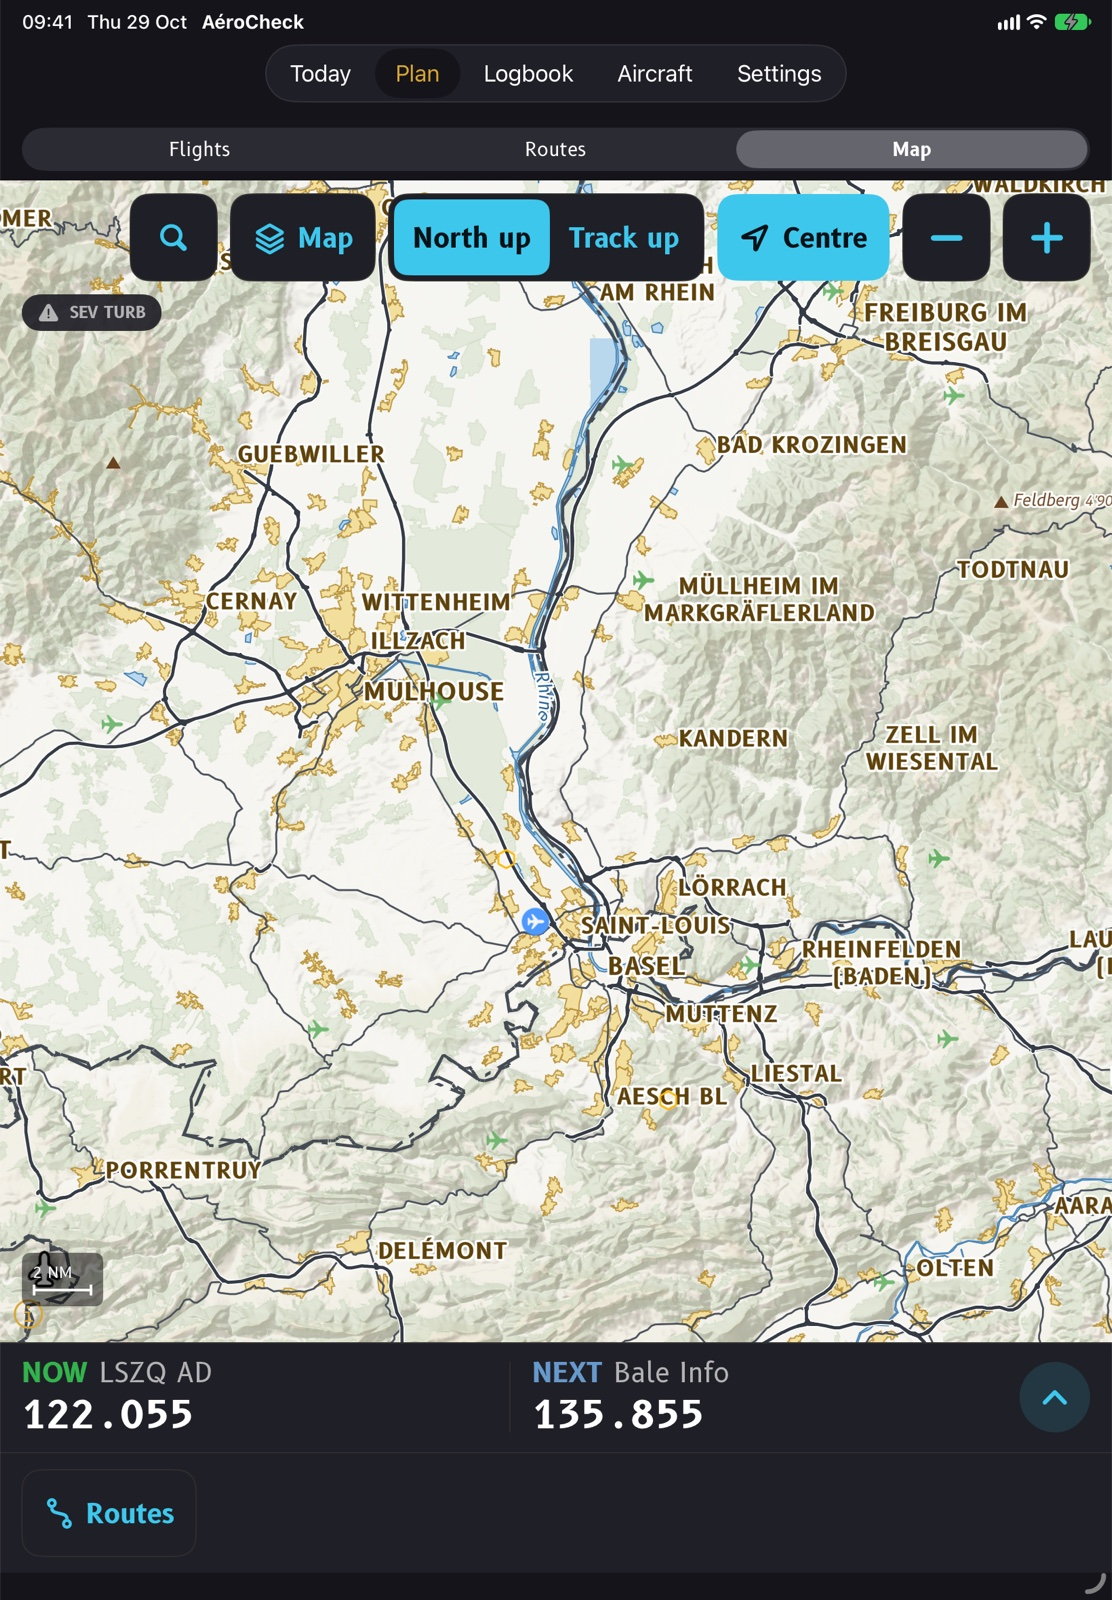
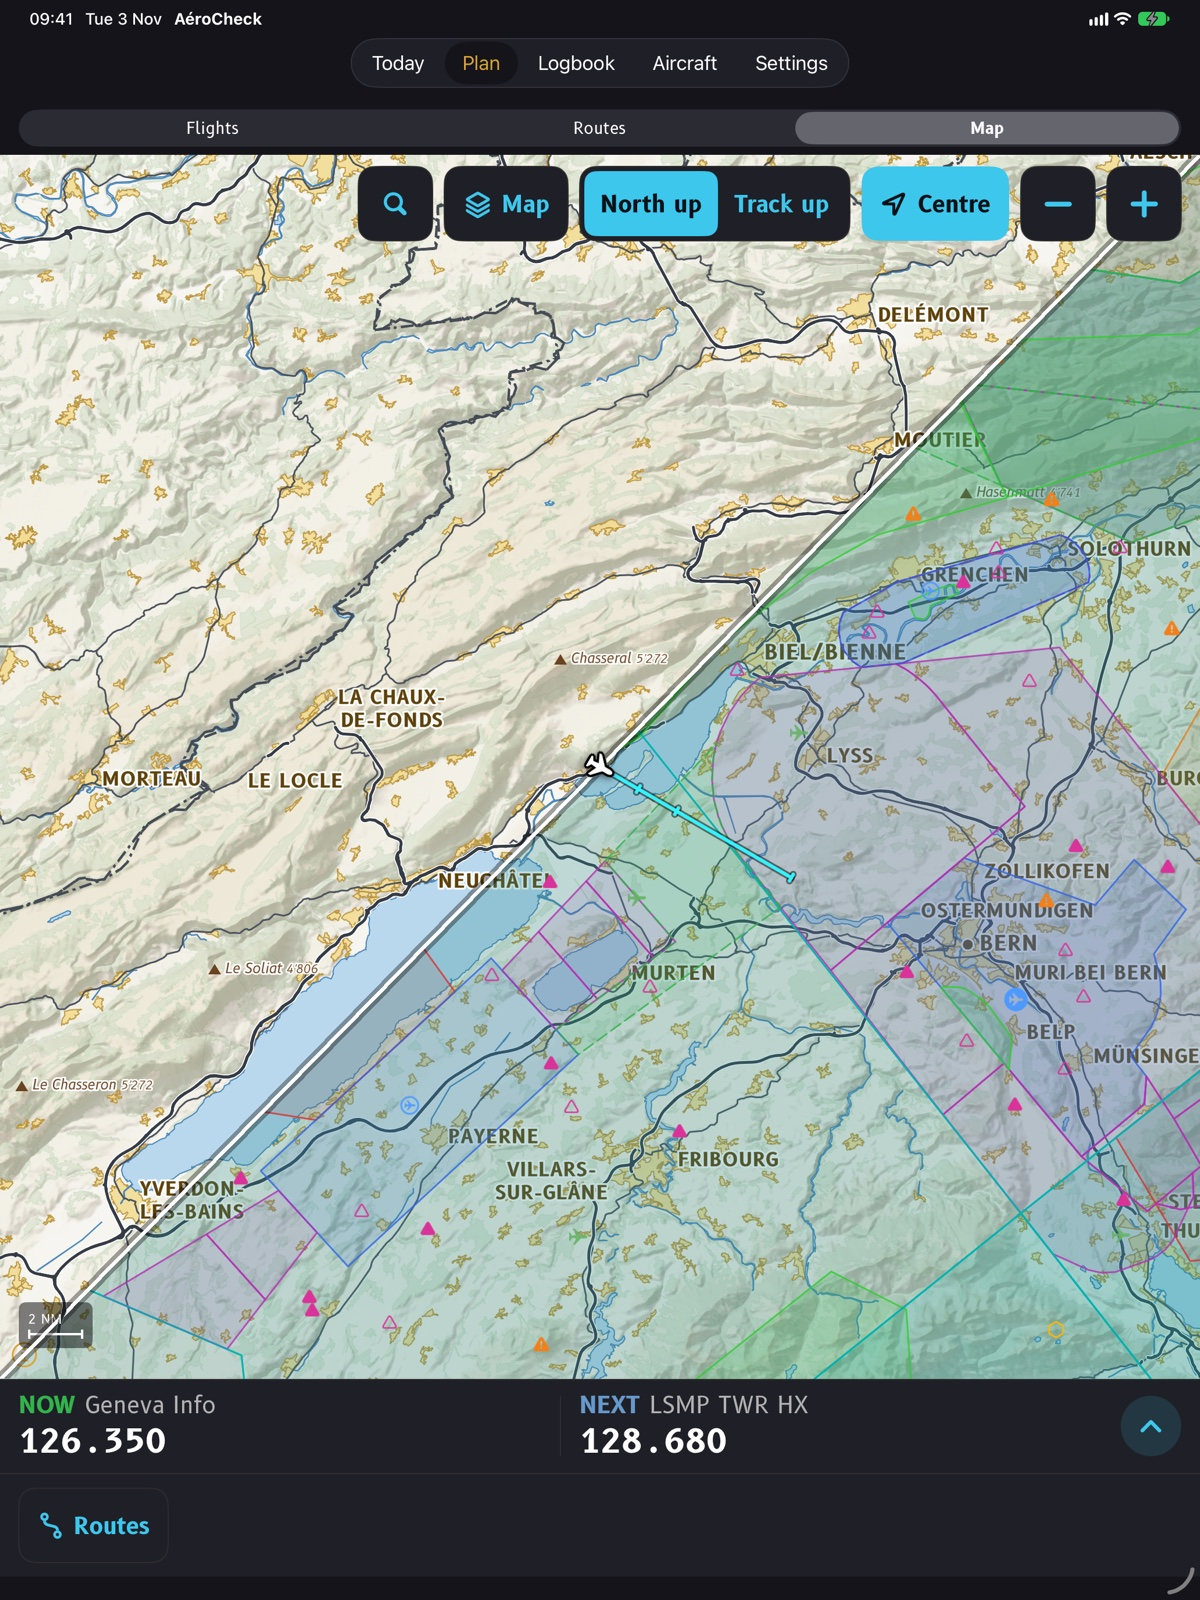
website: the Atlas over the Three Lakes, cut along the diagonal
The Atlas row's shot was the 29 Oct capture over Basel: the 11-inch iPad, in
English only. It is now the 13-inch iPad and the iPhone in English, French and
German, centred on La Neuveville, 46 NM across, the lakes of Biel, Neuchâtel
and Murten whole, and cut along the diagonal (the author's idea, 3 Nov 2026):
the bare Atlas at the top left, every layer on at the bottom right, the
aircraft over La Neuveville at 120° across the cut.

The manifest gets the other half as its own shot (`atlaslayers`, `input`) and
the Atlas shot's `split`; the screenshot run takes and joins them. Taken from
6.8.0 with the app's scene commits (#594, #599) and the airspace fix (#597).

diff --git a/SCREENSHOTS.md b/SCREENSHOTS.md
@@ -27,6 +27,12 @@ and the website's at 1600 px tall (since 6.8.0; an iPad Air 11-inch before, a th
 iPhone 17 (1206 × 2622 is the App Store's required medium display; the website takes it at 800 px wide). The App Store's Apple Watch set (since 6.6.0 in the run again; the 6.1 set before)
 comes from a Watch Ultra 3 paired with an iPhone 17. English, French and German, each with its own set.
 
+One shot is two captures in one image: the Atlas (3 Nov 2026), the bare map at the top left and the same frame with
+every layer on at the bottom right. Its `split` names the other half's shot (`atlaslayers`, whose `input` points back),
+which the run takes with it on the same devices and never publishes alone; the convert step cuts the two along the
+diagonal of the map, the line passing under the aircraft and the names. Both scenes hold the aircraft over La
+Neuveville at 120°, across the cut.
+
 The app side is DEBUG only, compiled out of Release builds:
 
 - **The scenes** (`AeroCheck/Services/MarketingLocationProvider.swift`, `MarketingScene` + `MarketingSceneInjector`):
